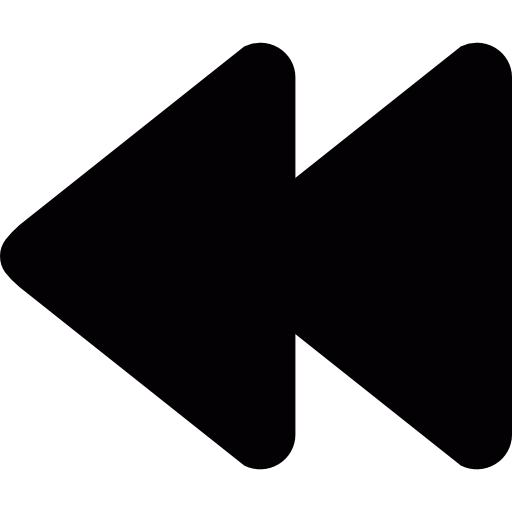
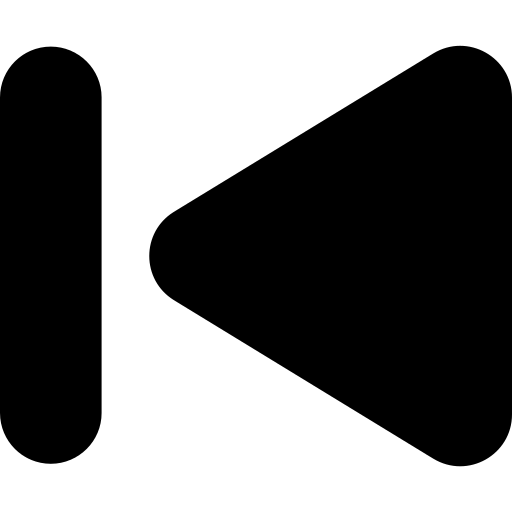
fix music playback progress and forward/back buttons

diff --git a/frontend/src/components/Playlist/Playlists.tsx b/frontend/src/components/Playlist/Playlists.tsx
@@ -14,46 +14,71 @@ export const Playlists = () => {
     const {rotationAngle} = useSelector((state: RootState) => state.audio);
 
     const [isDragging, setIsDragging] = useState(false);
+    const [mouseAngle, setMouseAngle] = useState([] as number[]);
+    const [lastDuration, setLastDuration] = useState(0);
     const containerRef = useRef<HTMLDivElement | null>(null);
 
+    useEffect(()=>{
+        if (duration)
+            setLastDuration(duration);
+    },[duration]);
 
     // Обновление угла при воспроизведении
     useEffect(() => {
-        if (!isDragging && isPlaying && duration > 0) {
-            const interval = setInterval(() => {
-                const newRotationAngle = (rotationAngle + 1) % 360;
+        if (!isDragging && isPlaying) {
+            const timeStart = +new Date();
+            const interval = setTimeout(() => {
+                const newRotationAngle = (rotationAngle + ((+new Date()) - timeStart)/50);
                 dispatch(setRotationAngle(newRotationAngle)); // Обновление угла в Redux
             }, 50);
-            return () => clearInterval(interval);
+            return () => clearTimeout(interval);
         }
-    }, [isPlaying, duration, isDragging, rotationAngle, dispatch]); // Добавили dispatch как зависимость
+    }, [isPlaying, isDragging, rotationAngle, dispatch]); // Добавили dispatch как зависимость
 
     // Обработка начала перетаскивания
-    const handleMouseDown = (e: React.MouseEvent) => {
-        e.preventDefault();
-        setIsDragging(true);
-    };
-
-    // Обработка перемещения мыши
-    const handleMouseMove = (e: React.MouseEvent) => {
-        if (!isDragging || !containerRef.current) return;
+    const getAngle = (e: React.MouseEvent) => {
+        if (!containerRef.current) return 0;
 
         const rect = containerRef.current.getBoundingClientRect();
         const centerX = rect.left + rect.width / 2;
         const centerY = rect.top + rect.height / 2;
 
         const angle = Math.atan2(e.clientY - centerY, e.clientX - centerX);
-        const newRotationAngle = ((angle * 180) / Math.PI + 360) % 360;
+        return ((angle * 180) / Math.PI + 360) % 360;
+    };
+
+    
+    const handleMouseDown = (e: React.MouseEvent) => {
+        e.preventDefault();
+        setMouseAngle([getAngle(e)]);
+        setIsDragging(true);
+    };
+    
+    useEffect(() => {
+        if (mouseAngle.length != 2) return;
+        const newRotationAngle = Math.max(rotationAngle + mouseAngle[1] - mouseAngle[0], 0);
 
         // Перематываем трек в зависимости от угла
-        const newTime = (newRotationAngle / 360) * duration;
+        const newTime = newRotationAngle * 50 / 1000;
+        
+        setMouseAngle(x=> [x[1]]);
+        if (Math.abs(mouseAngle[1] - mouseAngle[0]) > 180) return;
         dispatch(setRotationAngle(newRotationAngle)); // Обновляем угол в Redux
         dispatch(setCurrentTime(newTime)); // Обновляем время в Redux
+    }, [mouseAngle]);
+
+    // Обработка перемещения мыши
+    const handleMouseMove = (e: React.MouseEvent) => {
+        if (!isDragging || !containerRef.current) return;
+        const angle = getAngle(e);
+        setMouseAngle(x => [x[0] || 0, angle]);
     };
 
     const handleMouseUp = () => {
         setIsDragging(false); // Завершаем перетаскивание
     };
+
+    const progress = lastDuration ? Math.min((rotationAngle * 50 / 1000) / lastDuration, 1) : 1;
 
     return (
         <div
@@ -76,6 +101,10 @@ export const Playlists = () => {
                             transition: isDragging ? "none" : "transform 0.05s linear",
                         }}
                     />
+                        <svg version="1.1" width="100" height="100" viewBox="0 0 100 100" style={{height: '300px', width: '300px', position: 'absolute', top: '45px', left: '0px', pointerEvents: 'none'}}>
+                            <circle cx="50" cy="50" r="49.166667" fill="none" stroke="#777" strokeWidth="1.666666"></circle>
+                            <path d={`M 50 0.833333 A 49.166667 49.166667 0 ${progress>0.5?1:0} 1 ${Math.sin(progress*Math.PI*2)*49.166667+50} ${-Math.cos(progress*Math.PI*2)*49.166667+50}`} fill="none" stroke="#2c3737" strokeWidth="1.666666"></path>
+                        </svg>
                     <h3>{selectedPlaylist.name}</h3>
                 </div>
             ) : (

diff --git a/backend/src/api-v1/api/music/m/{filename}.js b/backend/src/api-v1/api/music/m/{filename}.js
@@ -25,7 +25,10 @@ module.exports = function () {
 
                 const stream = fs.createReadStream(filePath);
                 stream.pipe(res);
-                stream.on('error', (err) => res.status(500).json({ error: { error_code: 500, msg: err } }));
+                stream.on('error', (err) => {
+                    console.log(err);
+                    res.end()
+                });
                 return;
             }
 
@@ -44,7 +47,10 @@ module.exports = function () {
 
             const stream = fs.createReadStream(filePath, { start, end });
             stream.pipe(res);
-            stream.on('error', (err) => res.status(500).json({ error: { error_code: 501, msg: err } }));
+            stream.on('error', (err) => {
+                console.log(err);
+                res.end()
+            });
         });
     }
 
